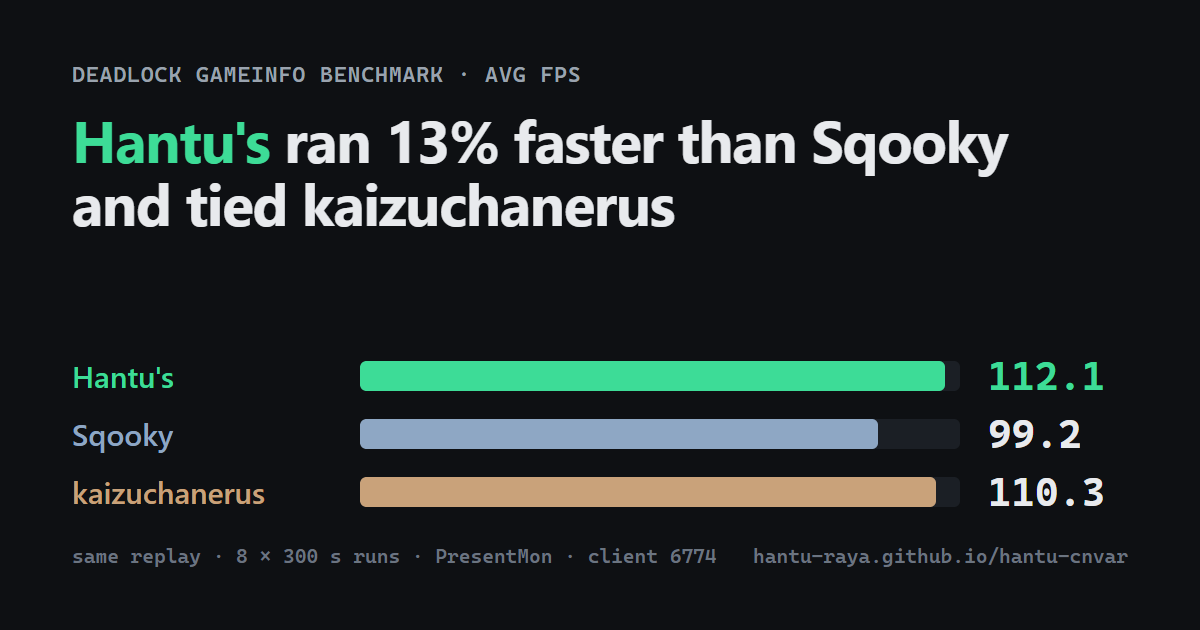
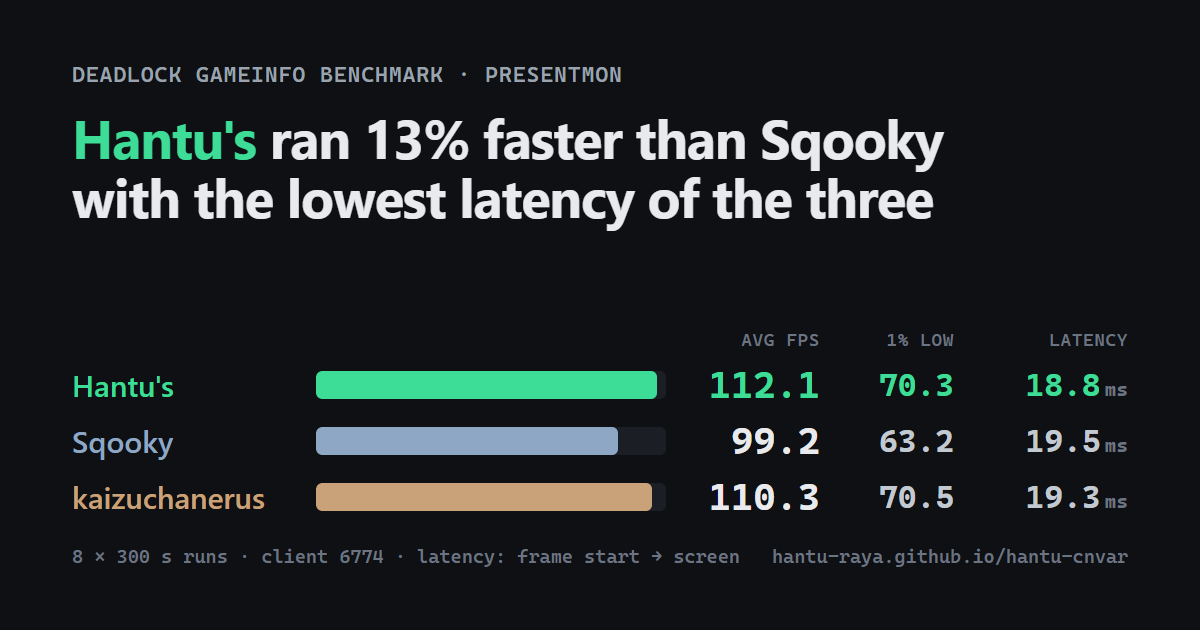
Preview card: add 1% low and display latency; new image URL so embeds refetch

diff --git a/index.html b/index.html
@@ -4,17 +4,17 @@
 <meta charset="utf-8">
 <meta name="viewport" content="width=device-width,initial-scale=1">
 <title>Hantu&#x27;s gameinfo vs Sqooky vs kaizuchanerus: Deadlock FPS benchmark</title>
-<meta name="description" content="Hantu&#x27;s ran 13% faster than Sqooky (112.3 vs 99.2 FPS) and tied kaizuchanerus&#x27; minimum spec (111.8 vs 110.3), timed frame by frame with PresentMon on the same recorded match.">
+<meta name="description" content="Hantu&#x27;s ran 13% faster than Sqooky (112.3 vs 99.2 FPS), tied kaizuchanerus&#x27; minimum spec (111.8 vs 110.3) and had the lowest display latency of the three (18.8 ms), timed frame by frame with PresentMon on the same recorded match.">
 <meta property="og:title" content="Hantu&#x27;s gameinfo vs Sqooky vs kaizuchanerus: Deadlock FPS benchmark">
-<meta property="og:description" content="Hantu&#x27;s ran 13% faster than Sqooky (112.3 vs 99.2 FPS) and tied kaizuchanerus&#x27; minimum spec (111.8 vs 110.3), timed frame by frame with PresentMon on the same recorded match.">
+<meta property="og:description" content="Hantu&#x27;s ran 13% faster than Sqooky (112.3 vs 99.2 FPS), tied kaizuchanerus&#x27; minimum spec (111.8 vs 110.3) and had the lowest display latency of the three (18.8 ms), timed frame by frame with PresentMon on the same recorded match.">
 <meta property="og:type" content="article">
 <meta property="og:url" content="https://hantu-raya.github.io/hantu-cnvar/">
-<meta property="og:image" content="https://hantu-raya.github.io/hantu-cnvar/og.png">
+<meta property="og:image" content="https://hantu-raya.github.io/hantu-cnvar/og-20261013-latency.png">
 <meta property="og:image:width" content="1200">
 <meta property="og:image:height" content="630">
-<meta property="og:image:alt" content="Average FPS: Hantu&#x27;s 112.1, Sqooky 99.2, kaizuchanerus 110.3. Deadlock gameinfo benchmark, client 6774.">
+<meta property="og:image:alt" content="Average FPS, 1% low and display latency: Hantu&#x27;s 112.1 FPS, 1% low 70.3, 18.8 ms; Sqooky 99.2 FPS, 1% low 63.2, 19.5 ms; kaizuchanerus 110.3 FPS, 1% low 70.5, 19.3 ms. Deadlock gameinfo benchmark, client 6774, PresentMon.">
 <meta name="twitter:card" content="summary_large_image">
-<meta name="twitter:image" content="https://hantu-raya.github.io/hantu-cnvar/og.png">
+<meta name="twitter:image" content="https://hantu-raya.github.io/hantu-cnvar/og-20261013-latency.png">
 <link rel="icon" href="data:,">
 <meta name="theme-color" content="#0e1013">
 <style>
